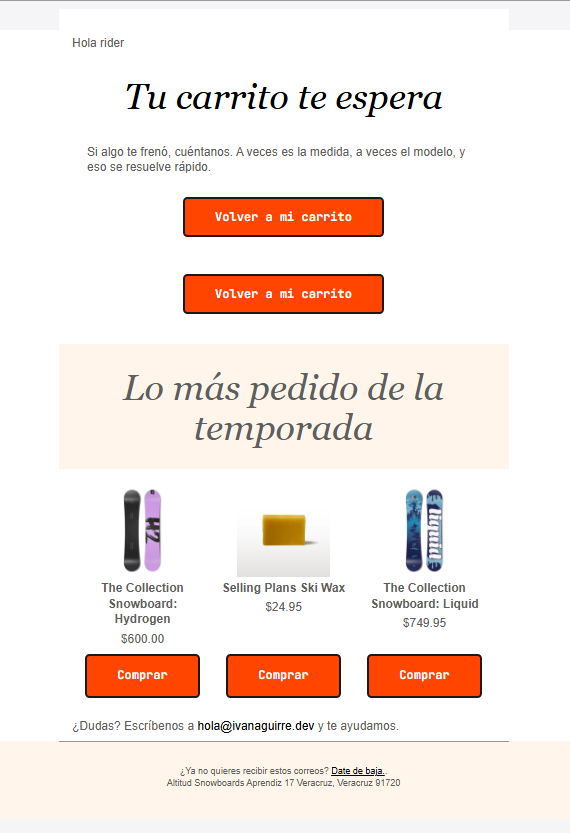
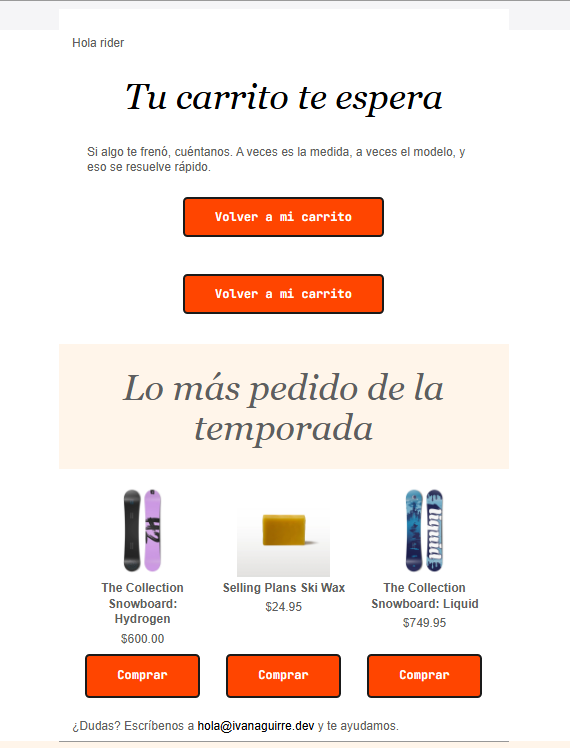
fix(web): crop the store address out of the Klaviyo cart-email shot
The legal footer in the preview showed a street address. Cut the shot
above it and drop the footer from the alt text.

Claude-Session: https://claude.ai/code/session_01SjY62iEtxyLwzSzsauXnVD

Changed region(s): [[0.1193, 0.0922, 0.8649, 0.984], [0.1193, 0.0307, 0.2386, 0.0615]]

diff --git a/web/src/content/demos/klaviyo.md b/web/src/content/demos/klaviyo.md
@@ -38,7 +38,7 @@ description: "Cuenta de Klaviyo conectada a una tienda de desarrollo de Shopify:
 - Quité la rama de SMS de la plantilla: la tienda no tiene consentimiento de SMS configurado. Quité también el banner "envío gratis en compras de $50": la tienda no tiene esa política.
 
 ![Flujo de carrito abandonado en Klaviyo: activador por página de pago iniciada, espera de 4 horas, Carrito 1 con 3 en espera, espera de 1 día y Carrito 2.](../../assets/klaviyo/06-cart-flow.png)
-![Vista previa del correo C1 de carrito: titular «Tu carrito te espera», botón para volver al carrito, bloque «Lo más pedido de la temporada» con tres productos y pie con enlace de baja.](../../assets/klaviyo/07-cart-email.png)
+![Vista previa del correo C1 de carrito: titular «Tu carrito te espera», botón para volver al carrito, bloque «Lo más pedido de la temporada» con tres productos y la línea de contacto.](../../assets/klaviyo/07-cart-email.png)
 
 ### Poscompra (activo)
 - **Disparador:** pedido realizado. **Espera 1 día → P1:** gracias y a quién escribir si algo sale mal.
